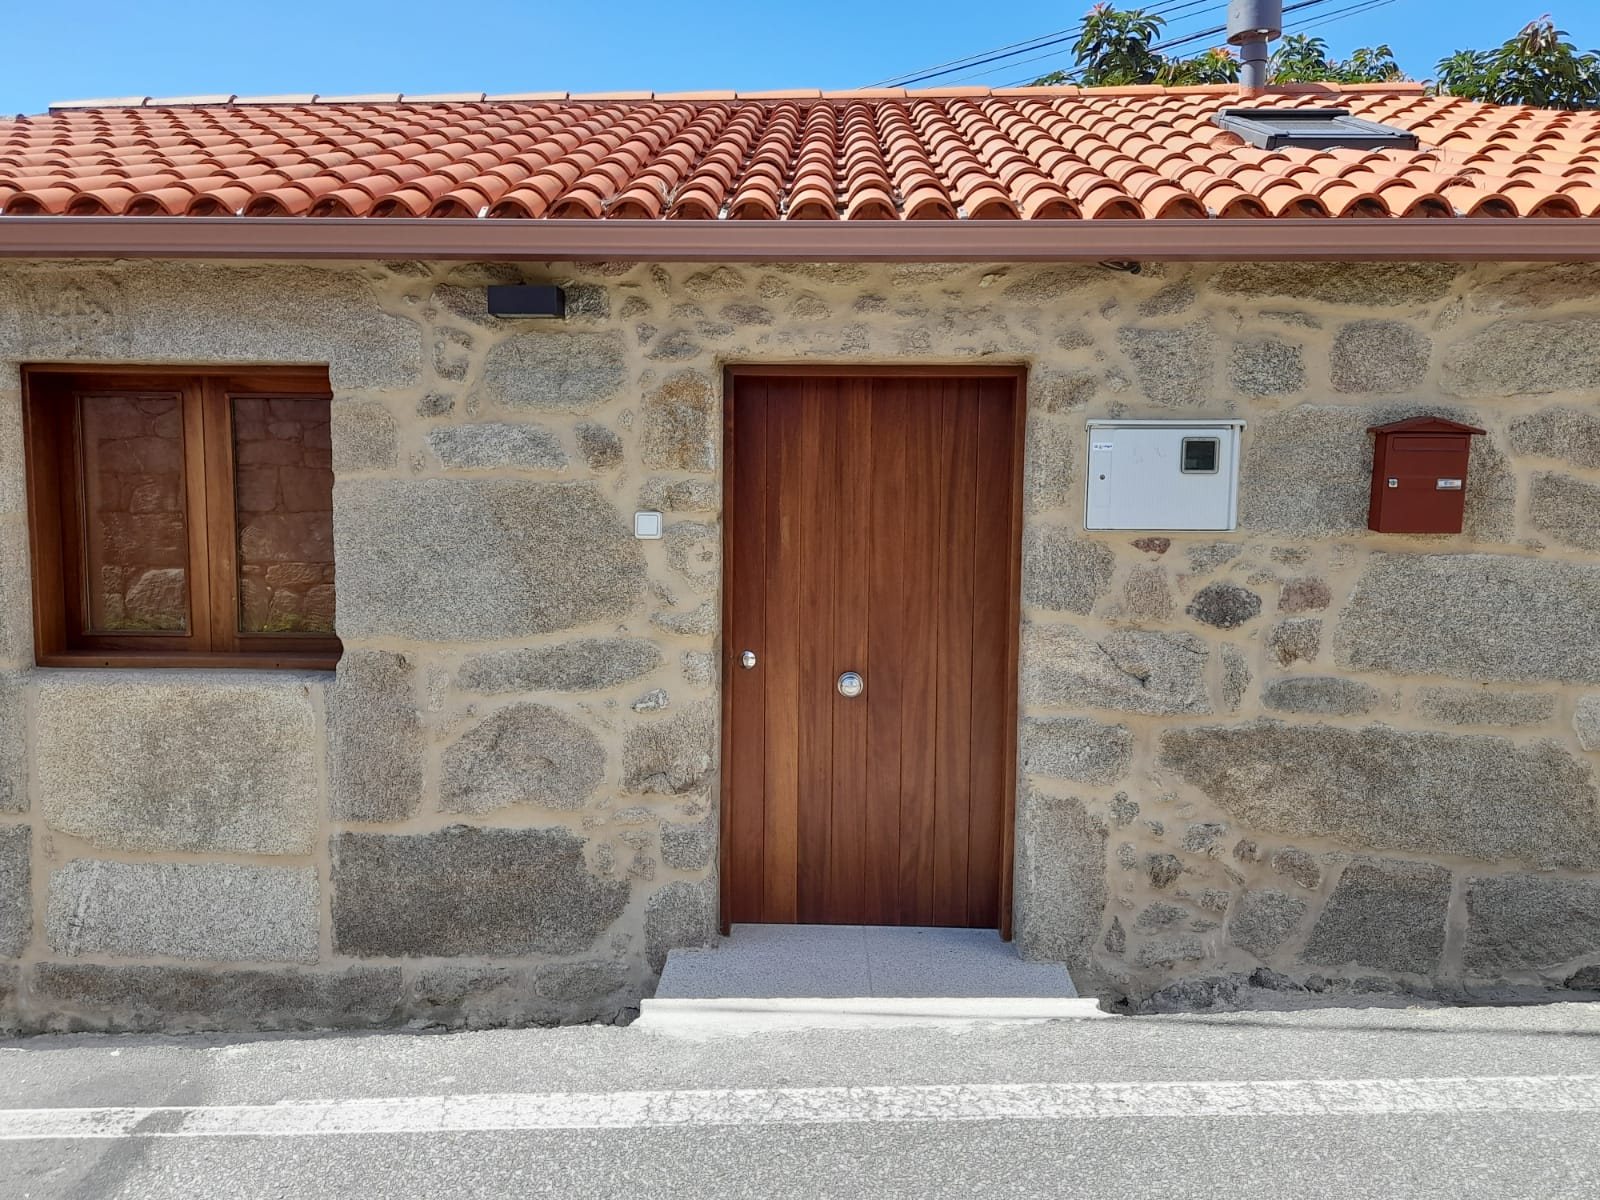
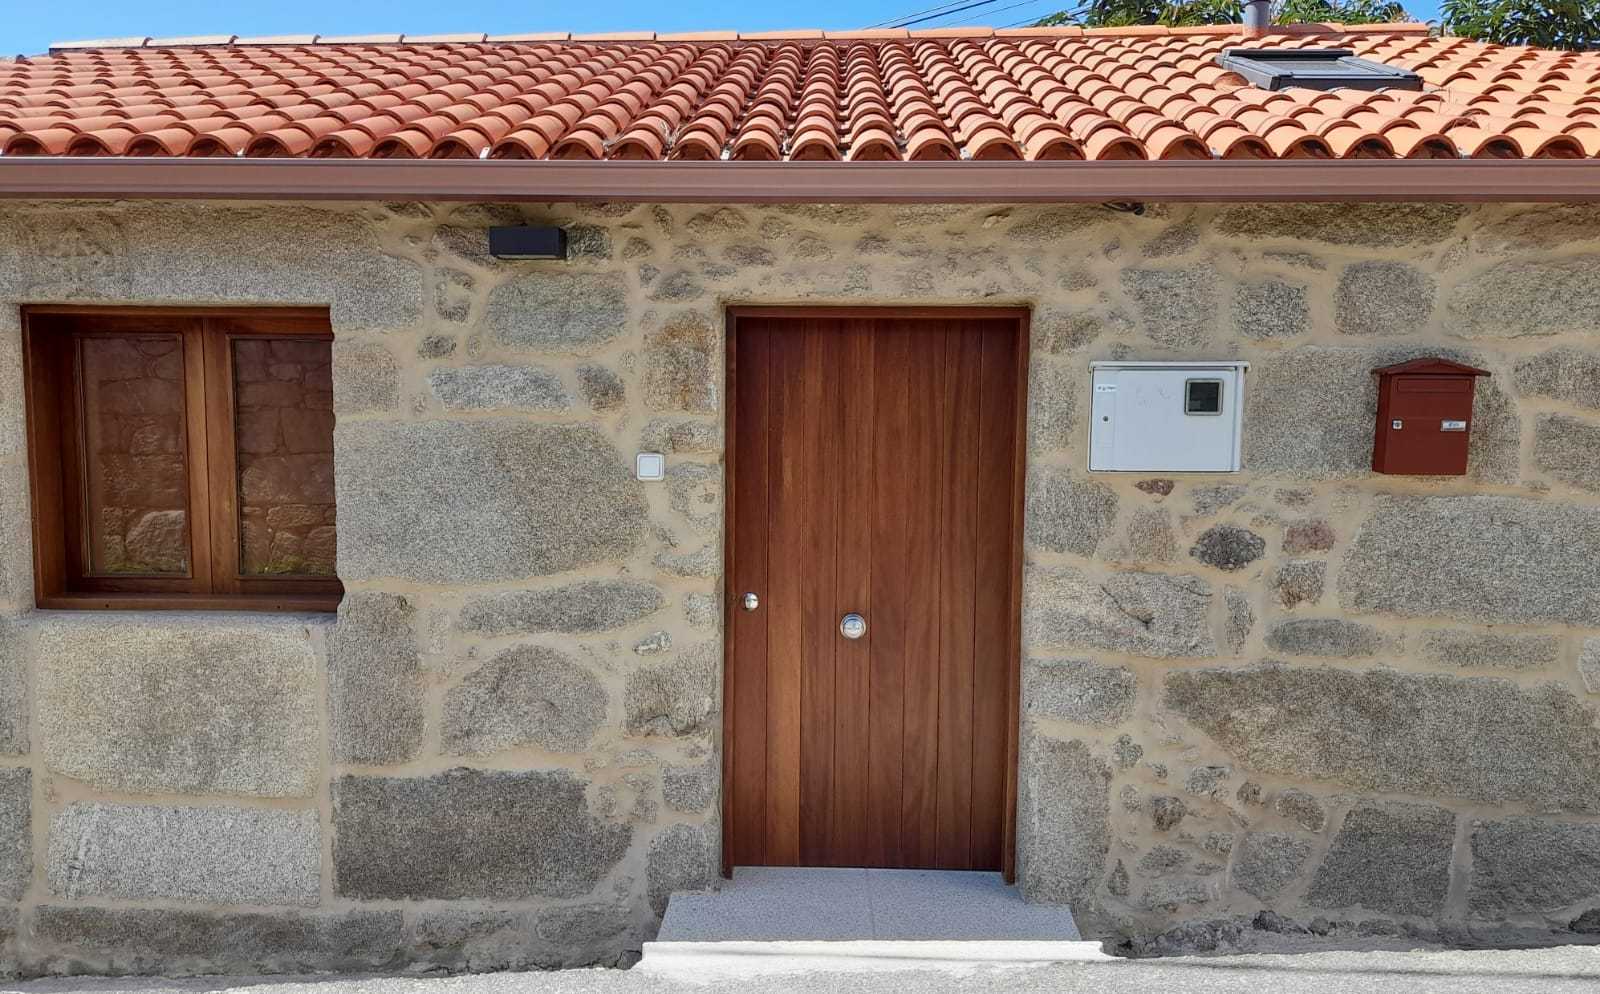
updated docs & tablas

diff --git a/styles.css b/styles.css
@@ -32,7 +32,7 @@ html, body {
   top: 0;
   right: 0;
   width: 240px;
-  height: 100vh;
+  height: 78%;
   background: #f4f4f4;
   display: flex;
   flex-direction: column;
@@ -48,7 +48,7 @@ html, body {
   color: #f8f7f1;
   text-decoration: none;
   background: #2aafdc;              /* fondo tipo casilla */
-  margin-bottom: 15px;
+  margin-bottom: 10px;
   padding: 0.9rem 1rem;
   border-radius: 6px;            /* bordes redondeados */
   border: 1px solid #444;        /* define cada casilla */
@@ -107,7 +107,7 @@ header h1 {
     color: rgb(222, 36, 67);
     text-shadow: 2px 2px 4px rgba(0, 0, 0, 0.7);
     position: relative;
-    top: 35px; /* Ajusta la distancia desde la parte superior */
+    top: 25px; /* Ajusta la distancia desde la parte superior */
     left: -32px; /* Ajusta la distancia desde la izquierda */
     background-image: none;
     font-family: cooper black;
@@ -119,15 +119,15 @@ header h1, h2{
      /* Ajusta el espacio entre líneas */
 }
 
-header h2 {
+.nombre {
     font-family: Berlin-sans FB;
     text-align: left;
     font-size: 2rem;
     color:  #2aafdc;
     margin-left: 3%;
-    position: left;
+    position: center;
     top: 150px; /* Ajusta la distancia desde la parte superior */
-    line-height: 0.6; /* Ajusta el espacio entre líneas */
+    line-height: 0.9; /* Ajusta el espacio entre líneas */
 }
 
 .logo-museo {
@@ -172,17 +172,105 @@ section {
     justify-content: center;
 }
 
-h2 {
+/**h2 {
     
     margin-right: 65%;
     margin-bottom: 15px;
+}**/
+
+.asociacion {
+  max-width: 90%;
+  margin: 40px auto;
+  background-color: white;
+  border-radius: 10px;
+  box-shadow: 0 2px 10px rgba(0,0,0,0.1);
+  padding: 30px;
+  text-align: center;
 }
 
-#s1{
-  margin-top: -10px;
+.texto h1 {
+  font-family: cooper black;
+  color:rgb(222, 36, 67);
+  font-size: 35px;
+  font-weight: bold;
+  margin-bottom: 10px;
+}
+
+.texto p {
+  font-size: 16px;
+  color: #333;
+  margin-bottom: 30px;
 }
 
 
+.imagenes {
+  display: flex;
+  justify-content: center;
+  align-items: center;
+  gap: 20px;
+  flex-wrap: wrap;
+  margin-top: 30px;
+}
+
+.imagenes img {
+  width: 45%;
+  border-radius: 8px;
+  box-shadow: 0 0 8px rgba(0,0,0,0.2);
+
+
+}
+
+
+.tabla-section {
+  display: flex;
+  justify-content: center;
+  margin: 40px 0;
+}
+
+.tabla-info {
+  border-collapse: collapse; /* Une las líneas */
+  width: 75%;
+  max-width: 900px;
+  background-color: #fff;
+  box-shadow: 0 0 10px rgba(0,0,0,0.1);
+  font-family: Arial, sans-serif;
+  text-align: center;
+  font-size: 2em;
+  align-items: center;
+  margin: 0 auto;
+  padding: 20px;
+  margin-top: 25px;
+  
+}
+
+
+.tabla-info th, 
+.tabla-info td {
+  border: 1px solid #ccc;
+  padding: 12px;
+  text-align: center;
+}
+
+.tabla-info th {
+  background-color: #00b4d8;
+  color: white;
+  text-transform: uppercase;
+  letter-spacing: 1px;
+  text-align: center;
+}
+
+.tabla-info tr:nth-child(even) {
+  background-color: #f8f8f8;
+}
+
+.tabla-info a {
+  color: #0077b6;
+  text-decoration: none;
+}
+
+.tabla-info a:hover {
+  text-decoration: underline;
+}
 
 
 

diff --git a/indexpapa.html b/indexpapa.html
@@ -11,8 +11,7 @@
 <body>
 <header>
     <h1>CASA MUSEO</h1>
-    <h2>XOSE MANUEL</h2>
-    <h2>PAZOS VARELA</h2>
+    <h2 class="nombre">XOSE MANUEL<br>PAZOS</h2>    
     <img src="images/foto_escudo.jpg" alt="logo_casa_museo" class="logo-museo">
 </header>
 
@@ -20,7 +19,7 @@
 
  <!-- NAV LATERAL DERECHA (FIJA) -->
 <nav class="lateral">
-  <a href="#s1">ASOCIACION CASA MUSEO</a>
+  <a href="#s1">ASOCIACIÓN CASA MUSEO</a>
   <a href="#s2">A FONDURA DA PEGADA</a>
   <a href="#s3">MEMORIA FOTOGRÁFICA</a>
   <a href="#s4">POLÍTICA</a>
@@ -32,13 +31,33 @@
 
   <!-- CONTENIDO PRINCIPAL -->
 <main>
-  <section id="s1"><h1>ASOCIACION CASA MUSEO</h1>
-    <p>aqui ira el texoto de la asociacion casa museo
-    </p>
+  <section id="s1"  class="asociacion">
+    <div class="texto">
+        <h1>ASOCIACIÓN CULTURAL</h1>
+        <h1>CASA MUSEO XOSÉ MANUEL PAZOS</h1>
 
+    <table class="tabla-info">
+      <thead>
+        <tr>
+          <th>OBXECTIVOS</th>
+          <th>ACTA FUNDACIONAL</th>
+             </tr>
+     </thead>
+    <tbody>
+      <tr>
+        <td><a href="Docs/DENOMINACION, FINS E ACTIVIDADES.odt">Denominación, fins e actividades.</a></td>
+        <td><a href="">Promotores e cargos da Xunta Directiva.</a></td>
+      </tr>
+    </tbody>
+  </table> 
+   <div class="imagenes">
+         <img src="images/casafuera.jpg" alt="foto_casa_exterior" height="275" width="375">
+         <img src="images/fotofinca.jpg" alt="foto_finca" height="275" width="375">
+    </div>
+  
 </section>
 
-
+   
 
 
   <section id="s2"><h1>A FONDURA DA PEGADA</h1>
